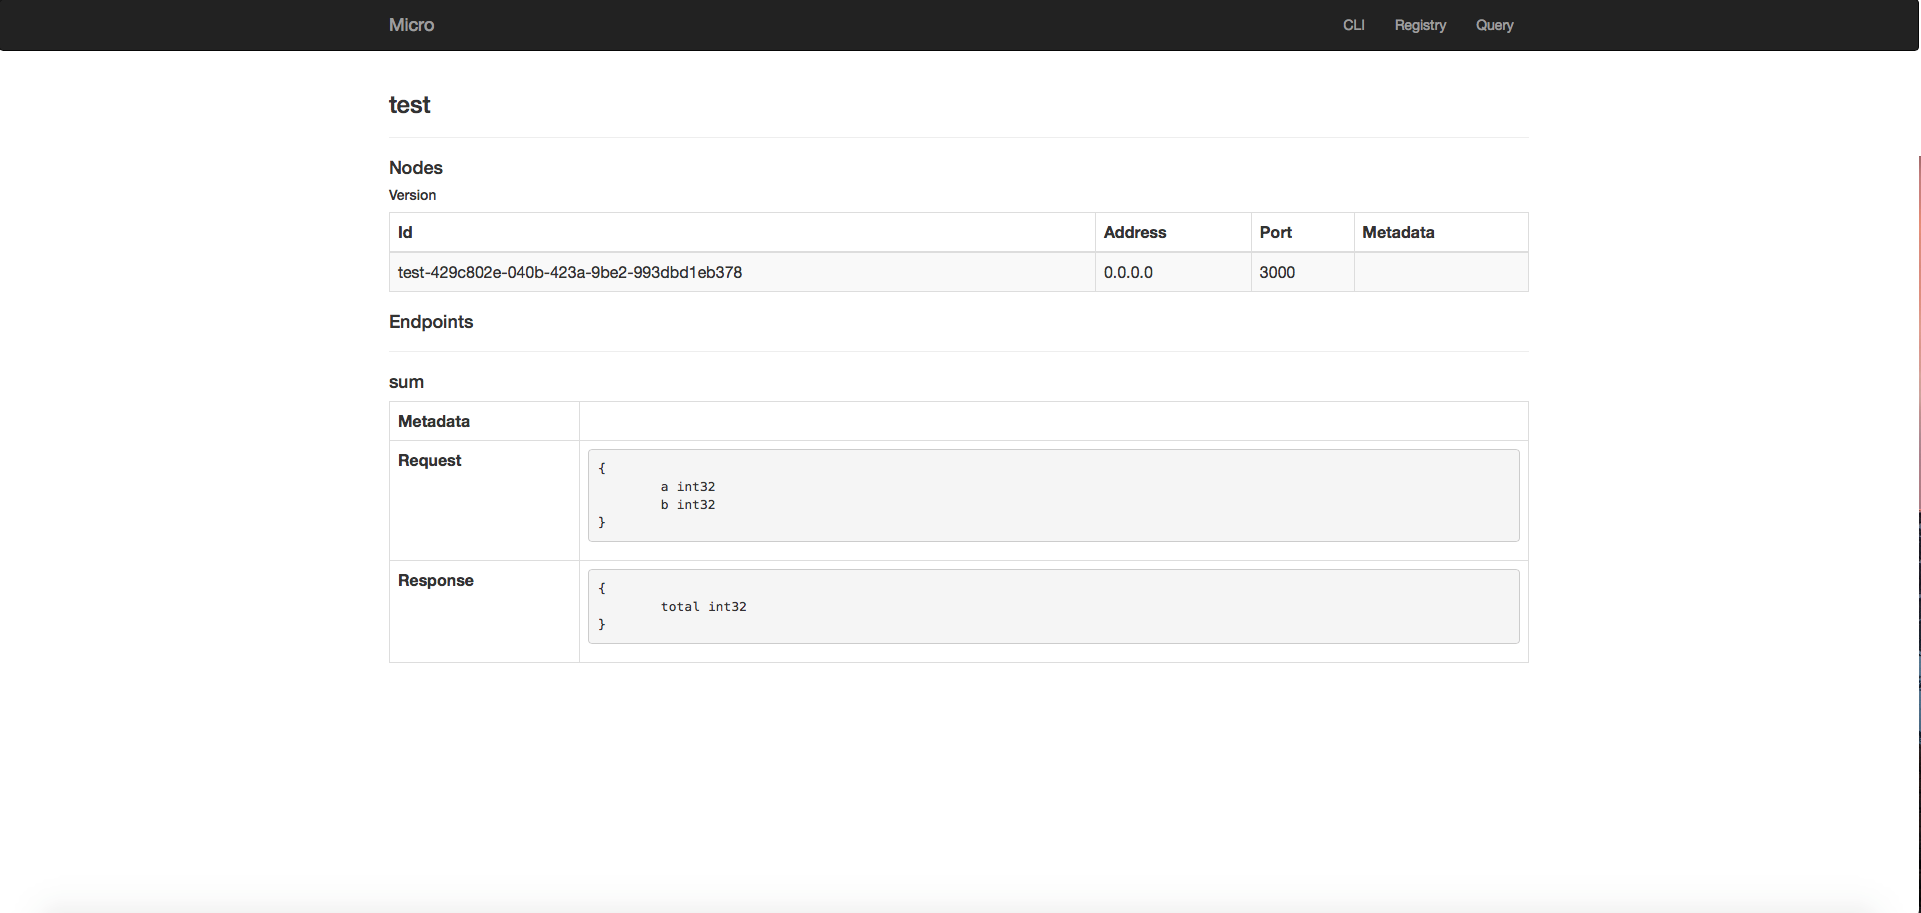
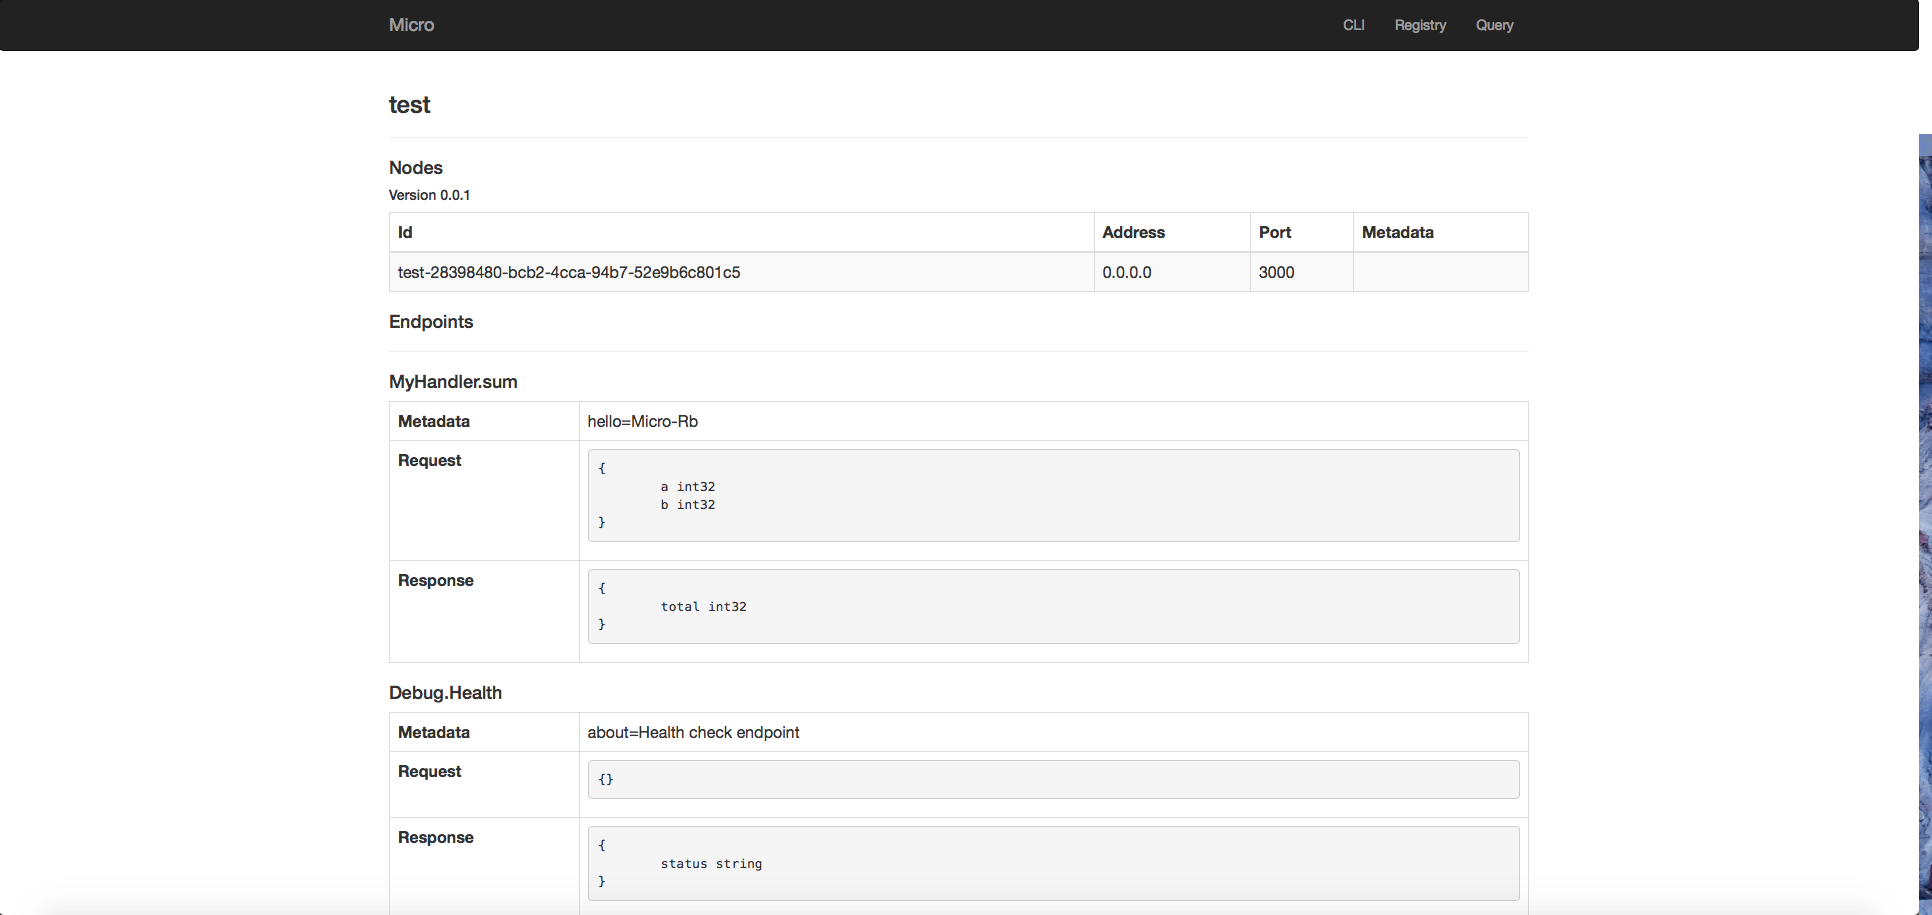
updates

diff --git a/lib/micro/examples/sum.rb b/lib/micro/examples/sum.rb
@@ -1,4 +1,4 @@
-require 'microrb'
+require_relative '../../../lib/microrb'
 require_relative '../examples/proto/sum_pb'
 
 class MyHandler

diff --git a/README.md b/README.md
@@ -121,7 +121,7 @@ Every handler must include a prtobuf module that has `Request` and `Response` co
 `micro api --address 0.0.0.0:3002`
 
 ```
-$ http POST 0.0.0.0:3002/rpc method=sum service=test request='{"a": 1, "b": 2}'
+$ http POST 0.0.0.0:3002/rpc method=MyHandler.sum service=test request='{"a": 1, "b": 2}'
 HTTP/1.1 200 OK
 Access-Control-Allow-Credentials: true
 Access-Control-Allow-Headers: Content-Type, Content-Length, Accept-Encoding, X-CSRF-Token, Authorization
@@ -138,7 +138,7 @@ Date: Tue, 09 May 2017 17:50:47 GMT
 ## Calling the service directly
 
 ```
-$ http POST 0.0.0.0:3000 service=test method=sum id=1 params:='[{"a": 1, "b": 2}]'
+$ http POST 0.0.0.0:3000 service=test method=MyHandler.sum id=1 params:='[{"a": 1, "b": 2}]'
 HTTP/1.1 200 OK
 Connection: Keep-Alive
 Content-Length: 31
